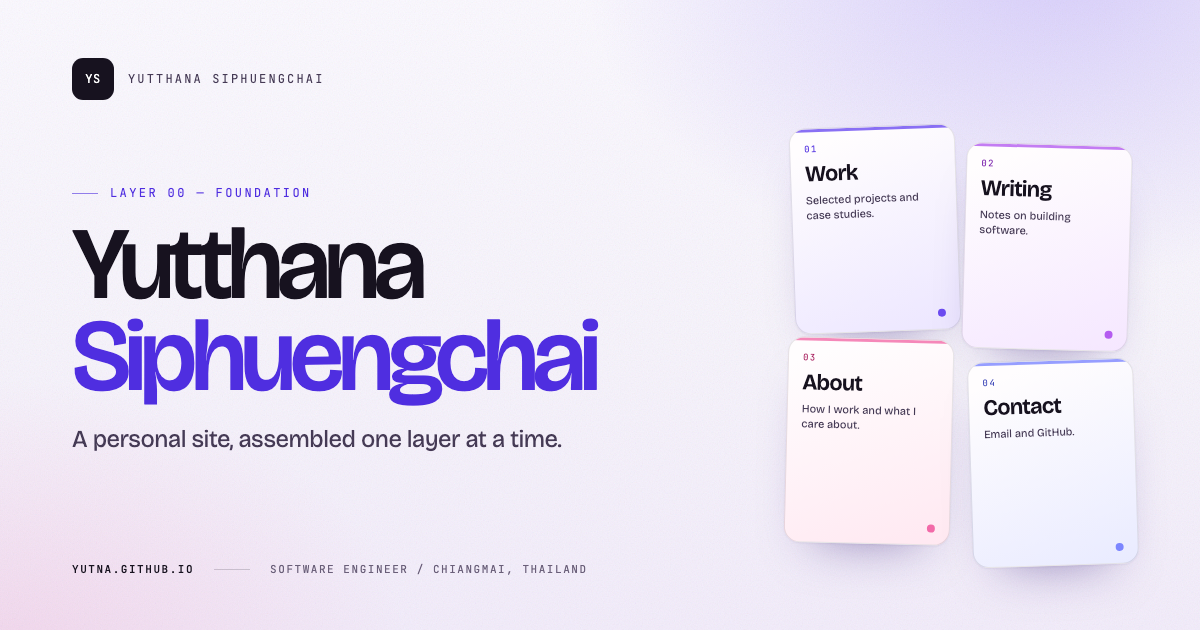
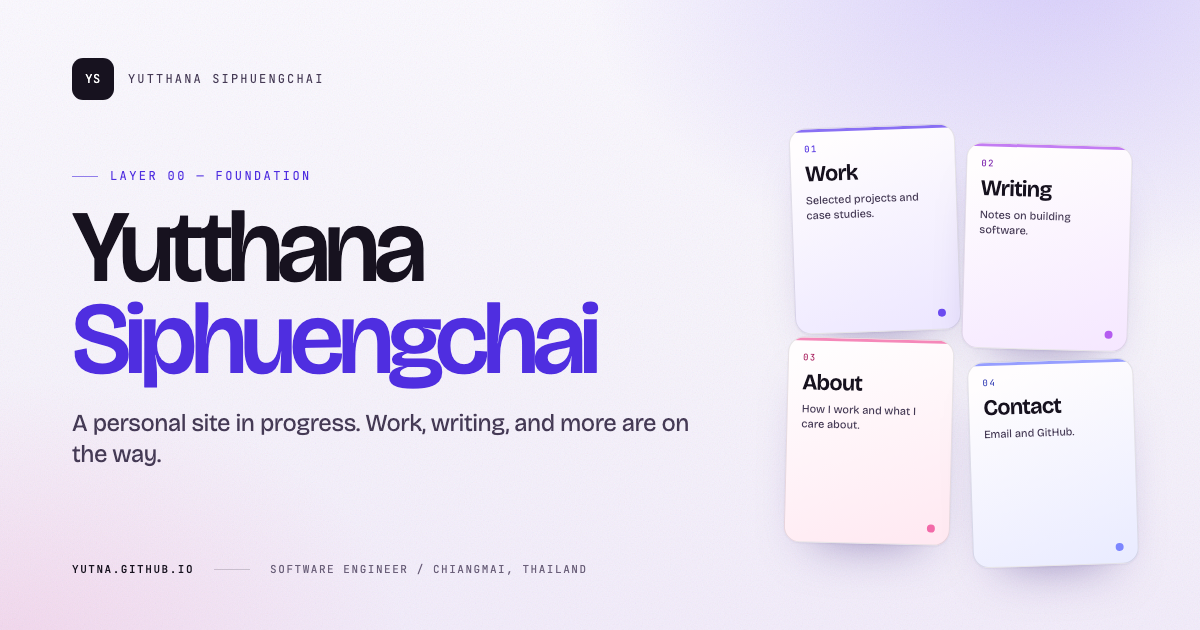
fix: clarify the site copy (#13)

Changed region(s): [[0.0617, 0.2714, 0.5858, 0.754]]

diff --git a/index.html b/index.html
@@ -2,7 +2,7 @@
 layout: default
 body_class: "home"
 title: "Software Engineer"
-description: "Software engineer in Chiangmai, Thailand. A personal site is being assembled one layer at a time — Work, Writing, About, and Contact are on the way."
+description: "Software engineer in Chiangmai, Thailand. A personal site in progress — Work, Writing, About, and Contact are on the way."
 image:
   path: "/assets/images/og.png"
   alt: "Yutthana Siphuengchai — Layer 00, a personal site in progress"
@@ -14,10 +14,10 @@ image:
     <div class="hero__copy">
       <p class="eyebrow">Layer 00 — Foundation</p>
       <h1><span>Yutthana</span><span>Siphuengchai</span></h1>
-      <p class="lede">A personal site, assembled one layer at a time.</p>
+      <p class="lede">A personal site in progress. Work, writing, and more are on the way.</p>
       <p class="hero__body">
-        I'm a software engineer in Chiangmai. I care about clear interfaces,
-        quiet systems, and the details that make software feel effortless.
+        I'm a software engineer who cares about the craft. I build high-quality
+        software that ships, earns users' trust, and stays maintainable.
       </p>
       <p class="hero__meta">
         <span>{{ site.data.site.role }}</span>

diff --git a/404.html b/404.html
@@ -2,7 +2,7 @@
 layout: default
 body_class: "not-found"
 title: "Page not found"
-description: "That page is not part of this build yet. Start again from Layer 00."
+description: "That page is not here. Head back to the homepage."
 permalink: /404.html
 sitemap: false
 noindex: true
@@ -16,13 +16,13 @@ noindex: true
   <div class="shell error__content">
     <p class="eyebrow">Error 404</p>
     <p class="error__code" aria-hidden="true">404</p>
-    <h1>Wrong layer.</h1>
+    <h1>Page not found.</h1>
     <p class="error__body">
-      This page isn't part of the build yet. The foundation is still being
-      poured — start again from Layer 00.
+      This page isn't part of the site yet. Head back to the homepage and
+      start from there.
     </p>
     <a class="button button--primary" href="{{ '/' | relative_url }}">
-      Back to Layer 00
+      Back to the homepage
       <svg viewBox="0 0 16 16" aria-hidden="true" focusable="false">
         <path d="M3 8h10M9 4l4 4-4 4" fill="none" stroke="currentColor" stroke-width="1.5" stroke-linecap="round" stroke-linejoin="round"/>
       </svg>

diff --git a/_includes/footer.html b/_includes/footer.html
@@ -1,6 +1,6 @@
 <footer class="site-footer">
   <div class="shell site-footer__inner">
-    <p class="site-footer__note">Built in public, one layer at a time.</p>
+    <p class="site-footer__note">Built in public.</p>
     <p class="site-footer__meta">
       <span>{{ site.data.site.location }}</span>
       <span aria-hidden="true">/</span>
